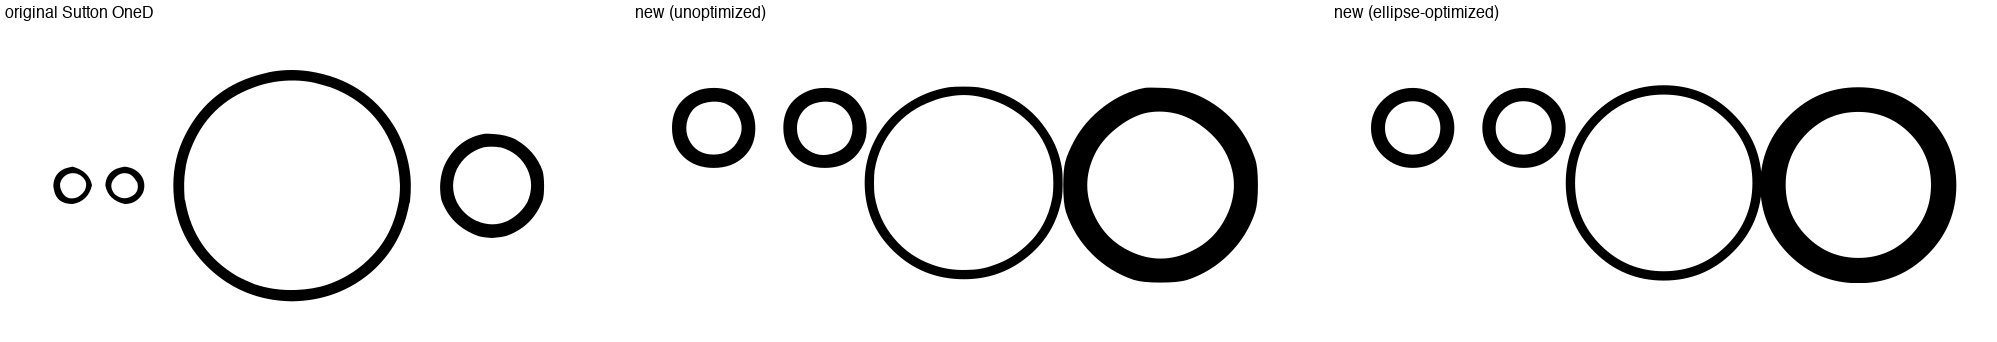
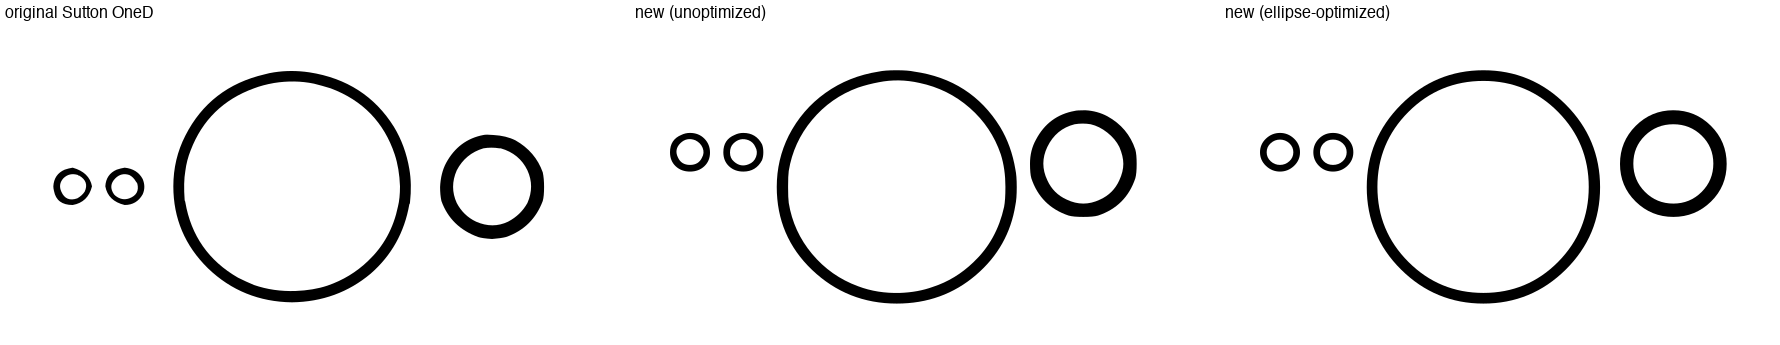
fix(1d): scale imported glyphs by SVG width to restore relative proportions
FontForge's importOutlines() ignores the SVG's width/height attributes and
fits every glyph to roughly the em-square, so S2ff00 (big circle), S17600
(small ring), and S21e00 (two-dot) all came out at ~294 units wide — the
big circle and the dots looked the same size.

The upstream OneD font sizes each glyph as roughly `svg_width × 10` in font
units (e.g. S2ff00 with svg width=36 → bbox 358; S17600 with svg width=16 →
bbox 156). After importOutlines we now read width/height out of the SVG
header and apply a uniform `psMat.scale()` so the imported bbox matches
`svg_width × 10 by svg_height × 10`, re-anchor to (0, -descent), and set
the advance width to `target_width + 20` for a small side-bearing.

The comparison image now matches the original OneD's relative sizing:
S2ff00 is the largest, S17600 is half that, S21e00 dots are smaller still.

diff --git a/signwriting_fonts/font_1d/build_font.py b/signwriting_fonts/font_1d/build_font.py
@@ -12,13 +12,24 @@ quadratic Beziers automatically when emitting TrueType.
 
 import argparse
 import os
+import re
 
 import fontforge
+import psMat
 
 # Sutton SignWriting OneD properties — match the original font's em-square so
 # downstream tooling (hb-view, browser rendering) gets consistent sizing.
 UNITS_PER_EM = 300
 DESCENT = 205  # baseline-to-bottom in font units (from the upstream OneD font)
+
+# Each symbol's SVG carries `width="N"` and `height="N"` attributes that
+# describe its size in iswa2010.db's "natural" units. The upstream OneD font
+# scales those by ~10× to land glyph bboxes in font-units roughly matching
+# `width × 10`. We replicate that ratio so the relative sizes of glyphs
+# (S2ff00 vs S17600 vs S21e00 vs hand glyphs) match the original.
+TARGET_UNITS_PER_NATURAL = 10
+
+_SVG_DIMS = re.compile(r'<svg[^>]*\bwidth="([0-9.]+)"[^>]*\bheight="([0-9.]+)"')
 
 
 def symkey_to_codepoint(symkey, plane=0x4):
@@ -63,15 +74,53 @@ def build_font(svg_dir, output_path):
             print("  ! skipping %s: %s" % (filename, exc))
             continue
 
+        svg_path = os.path.join(svg_dir, filename)
+        with open(svg_path) as fp:
+            head = fp.read(400)
+        m = _SVG_DIMS.search(head)
+        if not m:
+            print("  ! %s: no width/height in <svg>; skipping" % filename)
+            continue
+        nat_w = float(m.group(1))
+        nat_h = float(m.group(2))
+
         glyph = font.createChar(codepoint, symkey)
-        glyph.importOutlines(os.path.join(svg_dir, filename))
+        glyph.importOutlines(svg_path)
+        # FontForge ignores SVG width/height when sizing the import: every
+        # glyph comes out filling roughly the em-square. To restore the
+        # relative proportions seen in the upstream OneD font, scale each
+        # imported glyph so its bbox width matches `nat_w × 10`.
+        bb = glyph.boundingBox()  # (xMin, yMin, xMax, yMax)
+        bb_w = bb[2] - bb[0]
+        bb_h = bb[3] - bb[1]
+        target_w = nat_w * TARGET_UNITS_PER_NATURAL
+        target_h = nat_h * TARGET_UNITS_PER_NATURAL
+        # Use a single uniform scale (the lesser of the two ratios) so glyphs
+        # stay round; the original OneD doesn't squash either axis.
+        scale = min(target_w / bb_w if bb_w else 1.0,
+                    target_h / bb_h if bb_h else 1.0)
+        if scale and scale != 1.0:
+            glyph.transform(psMat.scale(scale))
+        # Re-anchor: leftmost ink at x=0, baseline so glyph descends below 0
+        # by the same fraction of em as in the original (~descent=205 for tall
+        # hand glyphs that span the whole em).
+        bb = glyph.boundingBox()
+        dx = -bb[0]
+        # Center vertically around the baseline-style anchor used by hb-view
+        dy = -bb[1] - DESCENT * (target_h / UNITS_PER_EM) if target_h else 0
+        glyph.transform(psMat.translate(dx, dy))
         # FontForge sometimes normalises sub-contour directions in surprising
         # ways when paths share fill rules ambiguously. correctDirection() puts
         # every contour into the canonical non-zero-winding orientation so a
         # ring (outer + inner sub-path) renders as a ring, not two filled discs.
         glyph.correctDirection()
-        glyph.width = int(glyph.boundingBox()[2] - glyph.boundingBox()[0]) or UNITS_PER_EM
-        print("  glyph %s -> U+%05X (width %d)" % (symkey, codepoint, glyph.width))
+        # Advance width = scaled glyph width + small side-bearing on each side.
+        glyph.width = int(round(target_w + 20))
+        print("  glyph %s -> U+%05X (svg %sx%s, bbox %.0fx%.0f, advance %d)"
+              % (symkey, codepoint, m.group(1), m.group(2),
+                 glyph.boundingBox()[2] - glyph.boundingBox()[0],
+                 glyph.boundingBox()[3] - glyph.boundingBox()[1],
+                 glyph.width))
 
     print("Generating %s..." % output_path)
     font.generate(output_path)